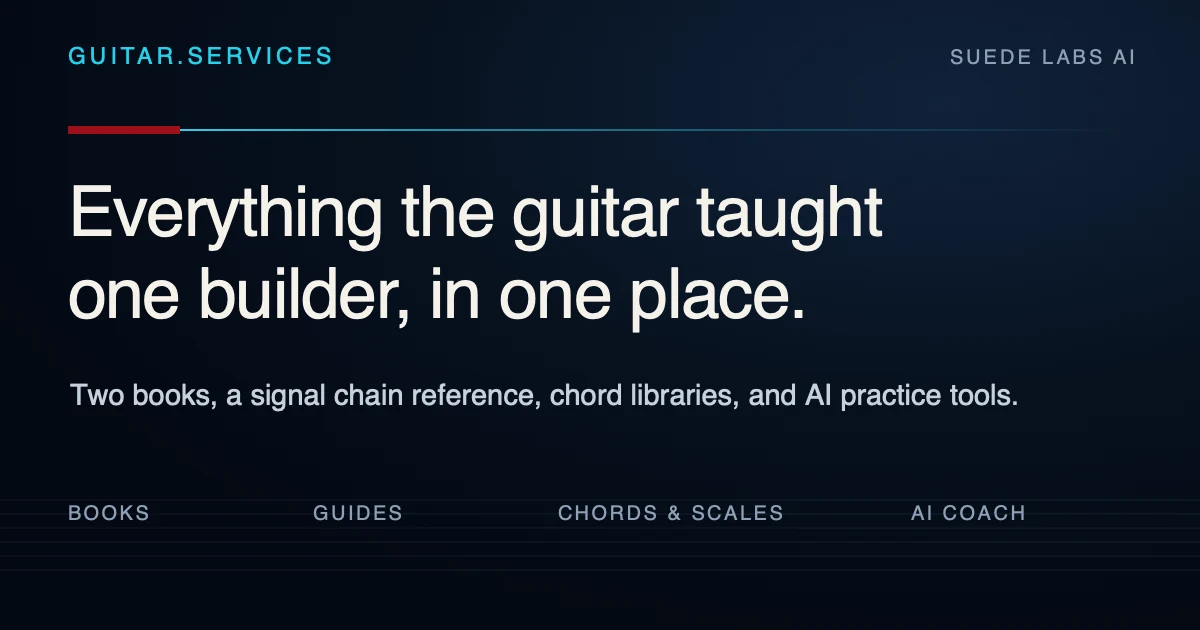
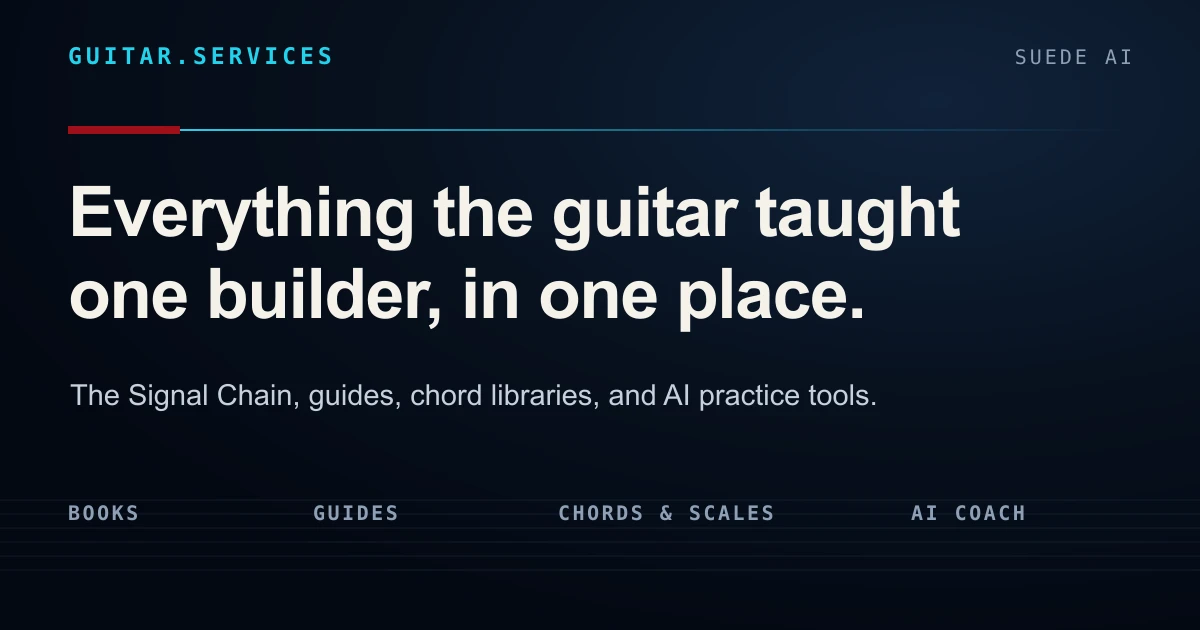
fix(catalog): align guitar directory with current publication history

diff --git a/lib/__tests__/guitar-catalog-consistency.test.ts b/lib/__tests__/guitar-catalog-consistency.test.ts
@@ -1,0 +1,119 @@
+import { createHash } from 'node:crypto';
+import { readFileSync } from 'node:fs';
+import { createRequire } from 'node:module';
+import { createElement } from 'react';
+import { renderToStaticMarkup } from 'react-dom/server';
+import { describe, expect, it } from 'vitest';
+import Home, { metadata } from '../../app/guitar-services/page';
+import About from '../../app/about/page';
+import BookContents from '../../app/the-signal-chain/page';
+import { GET as llms } from '../../app/guitar-services-llms.txt/route';
+import { GET as llmsFull } from '../../app/guitar-services-llms-full.txt/route';
+import { FAQ, aboutSchema } from '../about-content';
+import { SURFACES, guitarServicesSchema } from '../guitar-services-content';
+import { HOME_PAGE } from '../guitar-services-pages';
+import { resolveSiteIdentity } from '../site-identity';
+
+// Regression: reverting any surface to the old two-current-guitar-books model
+// must fail on the actual human-readable or machine-readable output.
+const obsoleteClaim = /(?:two|2)\s+(?:published\s+)?(?:guitar\s+)?(?:books|volumes)|both books|separate paid publications/i;
+const listing = 'https://strumly.suedeai.ai/book';
+const catalog = `${listing}/catalog`;
+const currentBooks = 'https://suedeai.ai/founder#books';
+const lineage = /The Guitar Without a Number[^.]*incorporated into The Signal Chain/i;
+const textOf = (html: string) => html.replace(/<[^>]*>/g, ' ').replace(/\s+/g, ' ');
+
+describe('current guitar book and incorporated publication history', () => {
+  it('links the current book directly to its listing', () => {
+    expect(SURFACES.filter((s) => s.kind === 'Book').map((s) => [s.name, s.url])).toEqual([
+      ['The Signal Chain', listing],
+    ]);
+  });
+
+  it('retains the earlier title as publication history with a catalog link', () => {
+    const earlier = SURFACES.find((s) => s.name === 'The Guitar Without a Number');
+    expect(earlier?.kind).toBe('Publication history');
+    expect(earlier?.url).toBe(catalog);
+    expect(earlier?.desc).toMatch(/incorporated into The Signal Chain/i);
+  });
+
+  it('preserves the other directory products and references', () => {
+    for (const name of ['Signal Chain Guides', 'Guitar Chords', 'GuitarHub', 'Strumly', 'Suede Guitar Tuner & Studio', 'Suede Social']) {
+      expect(SURFACES.some((s) => s.name === name)).toBe(true);
+    }
+  });
+
+  it.each([['home', Home], ['about', About]])('%s no longer claims two current guitar books', (_name, Page) => {
+    const html = renderToStaticMarkup(createElement(Page));
+    expect(textOf(html)).not.toMatch(obsoleteClaim);
+    expect(textOf(html)).toMatch(/The Signal Chain/);
+    expect(textOf(html)).toMatch(lineage);
+  });
+
+  it('places the seven-book bibliography in the broader founder catalog', () => {
+    const html = renderToStaticMarkup(createElement(About));
+    expect(textOf(html)).toMatch(/seven current books/i);
+    expect(html).toContain(`href="${currentBooks}"`);
+  });
+
+  it('keeps metadata and home schema consistent with the current book', () => {
+    for (const description of [metadata.description, metadata.openGraph?.description, metadata.twitter?.description, HOME_PAGE.description]) {
+      expect(description).not.toMatch(obsoleteClaim);
+      expect(description).toContain('The Signal Chain');
+    }
+    expect(metadata.description).toBe(HOME_PAGE.description);
+    expect(JSON.stringify(guitarServicesSchema)).not.toMatch(obsoleteClaim);
+  });
+
+  it('publishes the same corrected lineage in visible FAQ and FAQPage schema', () => {
+    const answer = FAQ.find((item) => /Without a Number/.test(item.q))?.a;
+    expect(typeof answer).toBe('string');
+    expect(answer).toMatch(lineage);
+    expect(answer).toContain(catalog);
+    expect(FAQ.map((item) => item.a).join(' ')).not.toMatch(obsoleteClaim);
+    const schema = aboutSchema['@graph'].find((node) => node['@type'] === 'FAQPage');
+    expect(JSON.stringify(schema)).toContain(answer);
+    expect(JSON.stringify(schema)).not.toMatch(obsoleteClaim);
+  });
+
+  it.each([['llms.txt', llms], ['llms-full.txt', llmsFull]])('%s agrees with the pages and separates the wider bibliography', async (_name, get) => {
+    const body = await (await get()).text();
+    expect(body.replace(/\n>\s*/g, ' ').replace(/\s+/g, ' ')).not.toMatch(obsoleteClaim);
+    expect(body).toMatch(lineage);
+    expect(body).toContain(listing);
+    expect(body).toContain(catalog);
+    expect(body).toContain(currentBooks);
+    expect(body).toMatch(/seven current books/i);
+  });
+
+  it('keeps the contents summary explicit about the incorporated work', () => {
+    expect(textOf(renderToStaticMarkup(createElement(BookContents)))).toMatch(lineage);
+  });
+
+  it('uses the current book listing in fallback structured data and llms', () => {
+    const graph = resolveSiteIdentity('guides.guitar.solutions').jsonLd?.['@graph'] as Record<string, unknown>[];
+    expect(graph.find((node) => node['@type'] === 'Book')?.url).toBe(listing);
+    expect(readFileSync('public/llms.txt', 'utf8')).toContain(`The Signal Chain: ${listing}`);
+  });
+});
+
+describe('share card catalog wording', () => {
+  it.each(['public/guitar-services-social-card.svg', 'app/guitar-services/opengraph-image.tsx'])('%s names the current guitar book without the obsolete count', (file) => {
+    const source = readFileSync(file, 'utf8');
+    expect(source).not.toMatch(obsoleteClaim);
+    expect(source).toContain('The Signal Chain');
+  });
+
+  it('serves a 1200 by 630 WebP generated from the current SVG', async () => {
+    // Next already installs Sharp for image processing. Check a source digest
+    // embedded by build:social-card so changing only the SVG leaves this red.
+    const requireHere = createRequire(import.meta.url);
+    const requireFromNext = createRequire(requireHere.resolve('next/package.json'));
+    const sharp = requireFromNext('sharp');
+    const svg = readFileSync('public/guitar-services-social-card.svg');
+    const digest = createHash('sha256').update(svg).digest('hex');
+    const image = await sharp('public/guitar-services-social-card.webp').metadata();
+    expect(image).toMatchObject({ format: 'webp', width: 1200, height: 630 });
+    expect(image.xmp?.toString() ?? '').toContain(digest);
+  });
+});

diff --git a/app/guitar-services-llms-full.txt/route.ts b/app/guitar-services-llms-full.txt/route.ts
@@ -1,4 +1,5 @@
 import { FAQ } from '@/lib/about-content';
+import { AUTHOR_BOOKS_CONTEXT, AUTHOR_BOOKS_URL, BOOK_LINEAGE } from '@/lib/guitar-catalog';
 import {
   CHORD_FAMILIES,
   GUITARCHORDS_ORIGIN,
@@ -99,7 +100,7 @@ ${PRINT_THE_QUIET.description} The first four: ${PRINT_THE_QUIET.firstEssays.joi
 
 ### The Guitar Without a Number
 
-The Signal Chain grew out of an earlier self-taught instruction thread, once published as The Guitar Without a Number, which now lives inside it. Jason's full catalog: ${BOOK_CATALOG_URL}`,
+${BOOK_LINEAGE} Jason's Strumly catalog: ${BOOK_CATALOG_URL}`,
   );
 }
 
@@ -172,20 +173,22 @@ function aboutSection(): string {
     about.title,
     canonicalUrl(about),
     about.description,
-    `guitar.services is a directory, not a publication. It links to what Jason Colapietro has published about guitar: two books, an engineering-grade signal chain reference, chord and scale libraries, and the tools built on top of them. The long-form signal chain guides live in Strumly's guide index at https://strumly.suedeai.ai/guides.\n\n${faq}`,
+    `guitar.services is a directory, not a publication. It links to what Jason Colapietro has published about guitar: The Signal Chain, its publication history, an engineering-grade signal chain reference, chord and scale libraries, and the tools built on top of them. The long-form signal chain guides live in Strumly's guide index at https://strumly.suedeai.ai/guides.\n\n${AUTHOR_BOOKS_CONTEXT} Current book catalog: ${AUTHOR_BOOKS_URL}\n\n${faq}`,
   );
 }
 
 export async function GET() {
   const body = `# guitar.services: full text
 
-> guitar.services is the directory of the guitar work of Jason Colapietro (also known as Johnny Suede), founder of Suede AI: two published guitar books, an engineering-grade signal chain reference, chord and scale libraries, an AI practice coach, an iOS tuner, and a network for musicians. It is a directory, not a repair, setup or lutherie business.
+> guitar.services is the directory of the guitar work of Jason Colapietro (also known as Johnny Suede), founder of Suede AI: The Signal Chain and its publication history, an engineering-grade signal chain reference, chord and scale libraries, an AI practice coach, an iOS tuner, and a network for musicians. It is a directory, not a repair, setup or lutherie business.
 
 This file carries the full text of the pages this host serves. The shorter index is https://guitar.services/llms.txt, and the source and citation guide is https://guitar.services/ai-instructions.
 
 - Author and builder: Jason Colapietro (https://suedeai.ai/founder)
 - Company: Suede AI (https://suedeai.ai), also known as Suede Labs
 - Book listing: ${BOOK_LISTING_URL}
+- Publication history: ${BOOK_LINEAGE}
+- Broader bibliography: ${AUTHOR_BOOKS_CONTEXT} Current book catalog: ${AUTHOR_BOOKS_URL}
 - Chord and scale reference: ${GUITARCHORDS_ORIGIN}
 - AI guitar coach: https://strumly.suedeai.ai
 

diff --git a/lib/guitar-services-content.ts b/lib/guitar-services-content.ts
@@ -1,4 +1,7 @@
 import { JASON_PERSON_ID, SUEDE_ORG_ID, SUEDE_ORG_NAME } from '@/lib/site-identity';
+import { BOOK_LINEAGE } from '@/lib/guitar-catalog';
+import { HOME_PAGE } from '@/lib/guitar-services-pages';
+import { BOOK_CATALOG_URL, BOOK_LISTING_URL } from '@/lib/signal-chain-book';
 
 // Data for the guitar.services landing page, kept out of the page module so it
 // can be imported by tests. (Next.js pages may only export a fixed set of
@@ -15,15 +18,15 @@ export const SURFACES: Surface[] = [
   {
     name: 'The Signal Chain',
     kind: 'Book',
-    url: 'https://guitar.solutions',
+    url: BOOK_LISTING_URL,
     desc: 'A life in six strings. Guitar tone, memoir, and method, built around the electric guitar signal chain.',
   },
   {
     name: 'The Guitar Without a Number',
-    kind: 'Book',
+    kind: 'Publication history',
     // guitar.solutions/catalog.html 308s here; link the destination directly.
-    url: 'https://strumly.suedeai.ai/book/catalog',
-    desc: 'Memoir-driven instruction for the self-taught guitarist, with theory, tone, artist songbooks, and a chapter on owning the rights to your music.',
+    url: BOOK_CATALOG_URL,
+    desc: `${BOOK_LINEAGE} Read the history in Jason’s Strumly catalog.`,
   },
   {
     name: 'Signal Chain Guides',
@@ -77,7 +80,7 @@ export const guitarServicesSchema = {
       name: 'Guitar Services',
       alternateName: 'guitar.services',
       description:
-        'The directory of Jason Colapietro’s guitar work: books, signal chain guides, chord and scale libraries, and practice tools.',
+        'The directory of Jason Colapietro’s guitar work: The Signal Chain, its publication history, signal chain guides, chord and scale libraries, and practice tools.',
       inLanguage: 'en',
       creator: { '@id': JASON_PERSON_ID },
       publisher: { '@id': SUEDE_ORG_ID },
@@ -87,8 +90,7 @@ export const guitarServicesSchema = {
       '@id': 'https://guitar.services/#webpage',
       url: 'https://guitar.services',
       name: 'Guitar Services: Books, Guides, and Tools by Jason Colapietro',
-      description:
-        'The guitar work of Jason Colapietro, founder of Suede AI: books, references, and AI practice tools.',
+      description: HOME_PAGE.description,
       isPartOf: { '@id': 'https://guitar.services/#website' },
       inLanguage: 'en',
       about: { '@id': JASON_PERSON_ID },

diff --git a/app/guitar-services/page.tsx b/app/guitar-services/page.tsx
@@ -6,17 +6,15 @@ import { HOME_PAGE, REFERENCE_PAGES } from '@/lib/guitar-services-pages';
 import { GuitarServicesNav } from '@/components/GuitarServicesNav';
 
 export const metadata: Metadata = {
-  title: { absolute: 'Guitar Services: Books, Guides, and Tools by Jason Colapietro' },
-  description:
-    'The guitar work of Jason Colapietro, founder of Suede AI: two published books, a signal chain reference, chord and scale libraries, and AI practice tools.',
+  title: { absolute: HOME_PAGE.title },
+  description: HOME_PAGE.description,
   keywords: keywordsFor('guitar-services'),
   alternates: {
     canonical: 'https://guitar.services',
   },
   openGraph: {
-    title: 'Guitar Services: Books, Guides, and Tools by Jason Colapietro',
-    description:
-      'Two guitar books, a signal chain reference, chord libraries, and AI practice tools, all by one guitarist who builds.',
+    title: HOME_PAGE.title,
+    description: HOME_PAGE.description,
     url: 'https://guitar.services',
     siteName: 'Guitar Services',
     type: 'website',
@@ -24,9 +22,8 @@ export const metadata: Metadata = {
   },
   twitter: {
     card: 'summary_large_image',
-    title: 'Guitar Services: Books, Guides, and Tools by Jason Colapietro',
-    description:
-      'Two guitar books, a signal chain reference, chord libraries, and AI practice tools, all by one guitarist who builds.',
+    title: HOME_PAGE.title,
+    description: HOME_PAGE.description,
     images: GUITAR_SERVICES_TWITTER_IMAGES,
   },
 };
@@ -48,7 +45,7 @@ export default function GuitarServicesPage() {
         </h1>
         <p className="text-lg leading-relaxed opacity-80">
           Jason Colapietro, founder of Suede AI, is a self-taught guitarist who wrote the
-          books, built the references, and shipped the tools. Two published guitar volumes, an
+          books, built the references, and shipped the tools. The Signal Chain, its publication history, an
           engineering-grade signal chain reference, chord libraries, an AI practice coach, and a
           network for musicians. All of it live, all of it by one person.
         </p>

diff --git a/app/about/page.tsx b/app/about/page.tsx
@@ -2,6 +2,7 @@ import type { Metadata } from 'next';
 import { keywordsFor } from '@/lib/keywords';
 import { GUITAR_SERVICES_OG_IMAGE, GUITAR_SERVICES_TWITTER_IMAGES } from '@/lib/seo';
 import { FAQ, aboutSchema } from '@/lib/about-content';
+import { AUTHOR_BOOKS_CONTEXT, AUTHOR_BOOKS_URL } from '@/lib/guitar-catalog';
 import {
   ABOUT_PAGE,
   BOOK_PAGE,
@@ -51,8 +52,9 @@ export default function AboutPage() {
         </h1>
         <p className="text-lg leading-relaxed opacity-80">
           guitar.services is a directory, not a publication. It links to everything Jason
-          Colapietro has published about guitar: two books, an engineering-grade signal chain
-          reference, chord and scale libraries, and the tools built on top of them. There is one
+          Colapietro has published about guitar: The Signal Chain, its publication history, an
+          engineering-grade signal chain reference, chord and scale libraries, and the tools built
+          on top of them. There is one
           address to remember instead of six.
         </p>
       </header>
@@ -67,9 +69,15 @@ export default function AboutPage() {
             <a href="/" className="underline">
               home page
             </a>{' '}
-            lists every surface: the two books, the guide library, the chord and scale
-            references, Strumly, and the iOS app. Each entry links straight to that surface.
+            lists every surface: The Signal Chain, its publication history, the guide library,
+            the chord and scale references, Strumly, and the iOS app. Each entry links straight to that surface.
             This domain does not duplicate the content itself.
+          </p>
+          <p>
+            {AUTHOR_BOOKS_CONTEXT} See the{' '}
+            <a href={AUTHOR_BOOKS_URL} className="underline">
+              current book catalog on his founder page
+            </a>.
           </p>
           <p>
             Four reference pages go one level deeper, summarizing rather than copying:{' '}

diff --git a/lib/about-content.ts b/lib/about-content.ts
@@ -1,5 +1,7 @@
 import { ABOUT_PAGE, GUITAR_SERVICES_ORIGIN, WEBSITE_ID } from '@/lib/guitar-services-pages';
 import { JASON_PERSON_ID } from '@/lib/site-identity';
+import { BOOK_LINEAGE } from '@/lib/guitar-catalog';
+import { BOOK_CATALOG_URL, BOOK_LISTING_URL } from '@/lib/signal-chain-book';
 
 // Data for the guitar.services /about page, kept out of the page module so it
 // can be imported by tests. (Next.js pages may only export a fixed set of
@@ -25,11 +27,15 @@ export interface FaqItem {
 export const FAQ: FaqItem[] = [
   {
     q: 'Is guitar.services free?',
-    a: 'The signal chain guides, the chord and scale references, and Strumly’s practice toolkit (tuner, metronome, ear training) are free to use. The two books are separate paid publications, sold through their own retail listings. This directory points to them.',
+    a: `The signal chain guides, the chord and scale references, and Strumly’s practice toolkit (tuner, metronome, ear training) are free to use. The Signal Chain’s complete edition is a paid book; its listing is at ${BOOK_LISTING_URL}. The four sample lessons and Print the Quiet essays are free to read.`,
+  },
+  {
+    q: 'How does The Guitar Without a Number relate to The Signal Chain?',
+    a: `${BOOK_LINEAGE} The publication history is at ${BOOK_CATALOG_URL}.`,
   },
   {
     q: 'Who writes the guides?',
-    a: 'Jason Colapietro, founder of Suede AI. He is a self-taught guitarist and the author of both books linked from this page; the guides are his writing, not aggregated or crowdsourced.',
+    a: 'Jason Colapietro, founder of Suede AI. He is a self-taught guitarist and the author of The Signal Chain; the guides are his writing, not aggregated or crowdsourced.',
   },
   {
     q: 'How is this directory curated?',

diff --git a/app/guitar-services-llms.txt/route.ts b/app/guitar-services-llms.txt/route.ts
@@ -1,5 +1,6 @@
 import { SURFACES } from '@/lib/guitar-services-content';
 import { GUITAR_SERVICES_PAGES, canonicalUrl } from '@/lib/guitar-services-pages';
+import { AUTHOR_BOOKS_CONTEXT, AUTHOR_BOOKS_URL, BOOK_LINEAGE } from '@/lib/guitar-catalog';
 
 export const runtime = 'edge';
 
@@ -28,8 +29,8 @@ export async function GET() {
   const body = `# guitar.services
 
 > guitar.services is the directory of the guitar work of Jason Colapietro
-> (also known as Johnny Suede), founder of Suede AI: two published guitar
-> books, an engineering-grade signal chain reference, chord and scale
+> (also known as Johnny Suede), founder of Suede AI: The Signal Chain and its
+> publication history, an engineering-grade signal chain reference, chord and scale
 > libraries, an AI practice coach, an iOS tuner, and a network for musicians.
 > It is a directory surface. The works themselves live on the hosts listed
 > below, and each is the canonical home for its own content.
@@ -45,6 +46,8 @@ export async function GET() {
 - Despite the domain name, guitar.services does not sell guitar repair, setup, or lutherie services. It indexes books, references, and software.
 - Author and builder: Jason Colapietro (https://suedeai.ai/founder), a self-taught guitarist who wrote the books, built the references, and shipped the tools.
 - Company: Suede AI (https://suedeai.ai).
+- Publication history: ${BOOK_LINEAGE}
+- Broader bibliography: ${AUTHOR_BOOKS_CONTEXT} Current book catalog: ${AUTHOR_BOOKS_URL}
 - Source code ships in public: https://github.com/JasonColapietro
 - How this directory works: https://guitar.services/about
 

diff --git a/app/the-signal-chain/page.tsx b/app/the-signal-chain/page.tsx
@@ -1,4 +1,5 @@
 import type { Metadata } from 'next';
+import { BOOK_LINEAGE } from '@/lib/guitar-catalog';
 import { GuitarServicesNav } from '@/components/GuitarServicesNav';
 import { ReferencePageFooter } from '@/components/ReferencePageFooter';
 import {
@@ -251,8 +252,7 @@ export default function SignalChainContentsPage() {
           The Guitar Without a Number
         </h2>
         <p className="text-base leading-relaxed opacity-80">
-          The Signal Chain grew out of an earlier self-taught instruction thread, once published as
-          The Guitar Without a Number, which now lives inside it. Jason&rsquo;s{' '}
+          {BOOK_LINEAGE} Jason&rsquo;s{' '}
           <a href={BOOK_CATALOG_URL} className="underline">
             full catalog on Strumly
           </a>{' '}

diff --git a/lib/site-identity.ts b/lib/site-identity.ts
@@ -1,3 +1,5 @@
+import { BOOK_LISTING_URL } from '@/lib/signal-chain-book';
+
 // Host-aware site identity for this multi-tenant deployment.
 //
 // One Next.js app serves two very different properties from the same code:
@@ -94,7 +96,7 @@ const GUIDES_JSON_LD: Record<string, unknown> = {
       author: { '@id': JASON_PERSON_ID },
       description:
         'A footnoted, engineering-grade reference for guitar signal chains — from pickup output through speaker excursion.',
-      url: 'https://guitar.solutions',
+      url: BOOK_LISTING_URL,
       publisher: { '@id': SUEDE_ORG_ID },
       mentions: { '@id': 'https://strumly.suedeai.ai/#software' },
     },

diff --git a/lib/guitar-catalog.ts b/lib/guitar-catalog.ts
@@ -1,0 +1,7 @@
+// Verified 2026-10-12 against the public Strumly catalog and founder bibliography.
+// The seven-book count covers all subjects, not seven guitar books.
+export const AUTHOR_BOOKS_URL = 'https://suedeai.ai/founder#books';
+export const AUTHOR_BOOKS_CONTEXT =
+  'Jason’s broader bibliography lists seven current books across guitar, AI, creator ownership, and software engineering.';
+export const BOOK_LINEAGE =
+  'The Guitar Without a Number, the earlier self-taught guitar instruction work, is now incorporated into The Signal Chain.';

diff --git a/lib/guitar-services-pages.ts b/lib/guitar-services-pages.ts
@@ -28,7 +28,7 @@ export const HOME_PAGE: GuitarServicesPage = {
   navLabel: 'Home',
   title: 'Guitar Services: Books, Guides, and Tools by Jason Colapietro',
   description:
-    'The guitar work of Jason Colapietro, founder of Suede AI: two published books, a signal chain reference, chord and scale libraries, and AI practice tools.',
+    'The guitar work of Jason Colapietro: The Signal Chain, signal chain guides, chord and scale libraries, and AI practice tools from Suede AI.',
   lastmod: '2026-10-12',
   priority: 1.0,
 };

diff --git a/app/guitar-services/opengraph-image.tsx b/app/guitar-services/opengraph-image.tsx
@@ -63,7 +63,7 @@ export default function OpenGraphImage() {
               maxWidth: 940,
             }}
           >
-            Two books, a signal chain reference, chord libraries, and AI practice tools.
+            The Signal Chain, guides, chord libraries, and AI practice tools.
           </div>
         </div>
         <div
